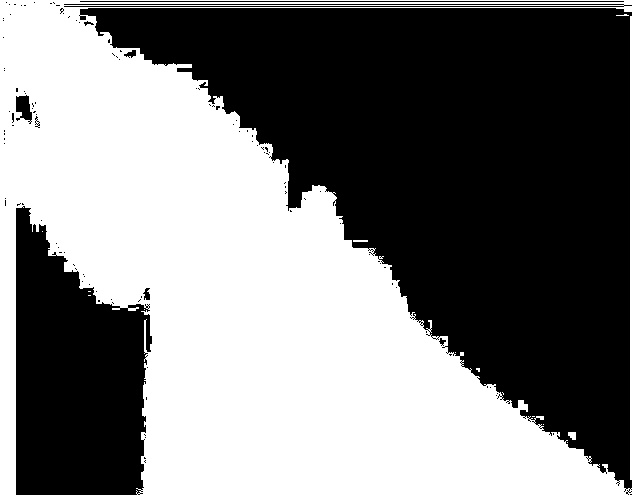
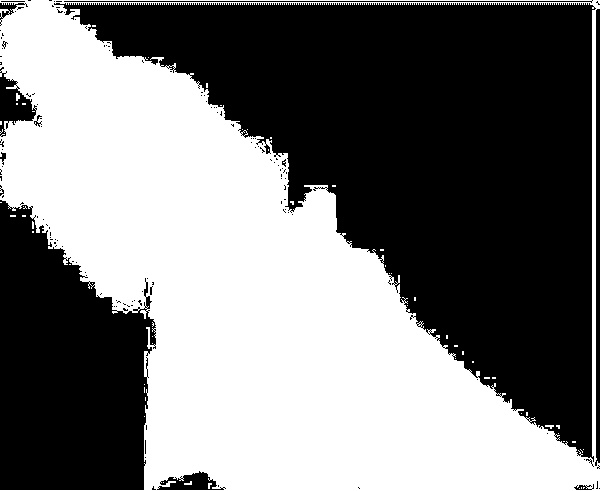
Add photos and modify grabcut masks making cpp

diff --git a/Tutorials/Grabcut/grabcut_to_mask.cpp b/Tutorials/Grabcut/grabcut_to_mask.cpp
@@ -11,9 +11,7 @@ Mat removeBackground(Mat grabcutImg, Mat result) {
 			pixelBVal = grabcutImg.at<Vec3b>(r, c)[0];
 			pixelGVal = grabcutImg.at<Vec3b>(r, c)[1];
 			pixelRVal = grabcutImg.at<Vec3b>(r, c)[2];
-			if (c == 0) {
-				std::cout << "r: " << pixelRVal << "g: " << pixelGVal << "b: " << pixelBVal << std::endl;
-			}
+			
 			if (pixelBVal == 0 && pixelGVal == 0 && pixelRVal == 0) {
 				result.at<uchar>(r, c) = 0;
 			}
@@ -26,16 +24,25 @@ Mat removeBackground(Mat grabcutImg, Mat result) {
 }
 
 int main(int argc, char* argv[]) {
-	Mat grabcutImg = imread("Detection_Algorithm/Data/Static_Test_Im/template_grabcut_mercy.jpg");
+	Mat grabcutImg = imread("Detection_Algorithm/Data/Static_Test_Im/grabcutresult.jpg");
 	imshow("Grab", grabcutImg);
 	waitKey(0);
+	Rect myRect(992, 551, 600, 491);
+	Mat cropped = grabcutImg(myRect);
+	imshow("Grab", cropped);
+	waitKey(0);
 
-	Mat temp = Mat(grabcutImg.rows, grabcutImg.cols, CV_8U);
+	Mat temp = Mat(cropped.rows, cropped.cols, CV_8U);
 	imshow("Temp", temp);
 	waitKey(0);
 
-	Mat result = removeBackground(grabcutImg, temp);
+	Mat result = removeBackground(cropped, temp);
 	imshow("Show", result);
 	imwrite("mask_grabcut_mercy.jpg", result);
 	waitKey(0);
+	return 1;
 }
+// x: 987
+// y: 548
+// w: 608
+// h: 495

diff --git a/Tutorials/Grabcut/grabcut.cpp b/Tutorials/Grabcut/grabcut.cpp
@@ -118,6 +118,7 @@ void GCApplication::setRectInMask() {
     rect.y = max(0, rect.y);
     rect.width = min(rect.width, image->cols - rect.x);
     rect.height = min(rect.height, image->rows - rect.y);
+    cout << "x: " << rect.x << "y: " << rect.y << "w: " << rect.width << "h: " << rect.height << endl;
     (mask(rect)).setTo(Scalar(GC_PR_FGD));
 }
 void GCApplication::setLblsInMask(int flags, Point p, bool isPr) {

diff --git a/Tutorials/Grabcut/template_matching_wmask.cpp b/Tutorials/Grabcut/template_matching_wmask.cpp
@@ -15,7 +15,7 @@ const char* mask_name = "Detection_Algorithm/Data/Static_Test_Im/mask_grabcut_me
 
 void matchTemplates(Mat src, Mat templ1, Mat templ2, Mat mask, int method);
 
-int main1(int argc, char** argv) {
+int main(int argc, char** argv) {
 	Mat srcImg = imread(image_name, IMREAD_COLOR);
 	Mat templImg1 = imread(template_name1, IMREAD_COLOR);
 	Mat templImg2 = imread(template_name2, IMREAD_COLOR);
